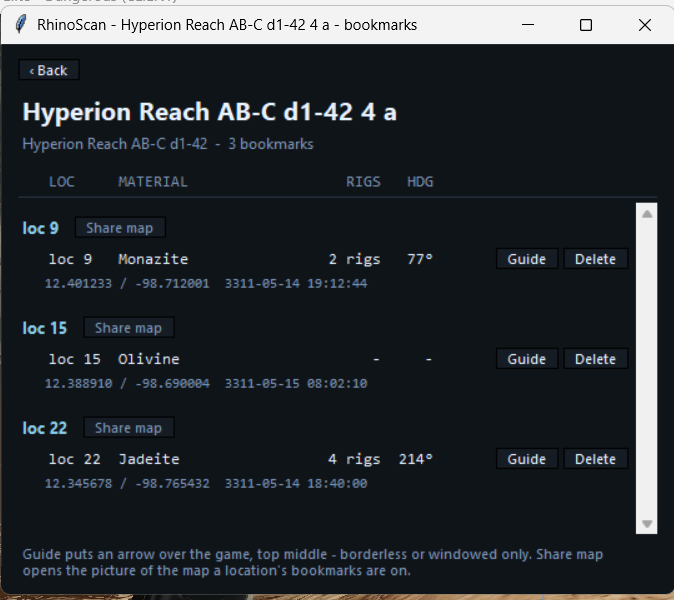
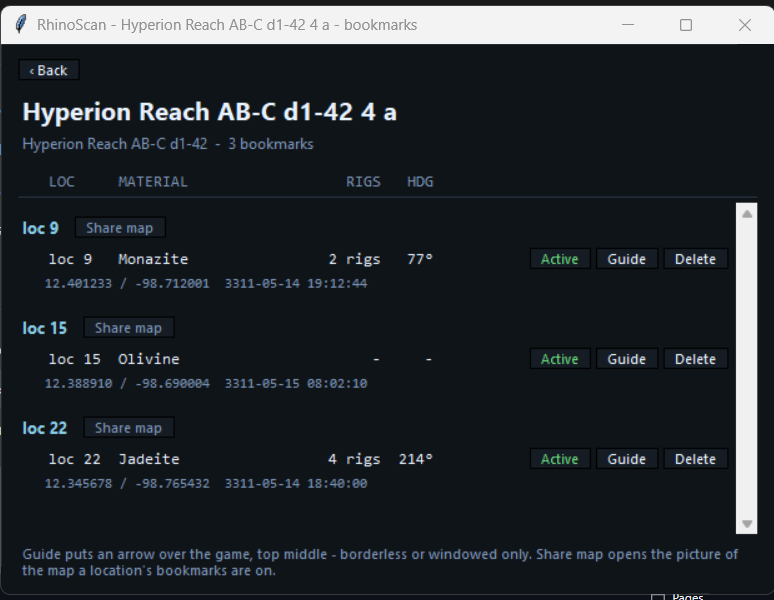
Mark a bookmark depleted: green Active, red Depleted, before Guide
The time of the mark goes into the bookmark's JSON as depleted_at, so a
refill time can be counted from it once one is known. 4.1.0, not released.

Claude-Session: https://claude.ai/code/session_01M6boCJULrSyUu3acaq6ken

diff --git a/rs_ui/scan.py b/rs_ui/scan.py
@@ -357,10 +357,10 @@ def _cards_link(parent, records):
                lambda event: _bookmarks_view(label.winfo_toplevel(), system, body, records))
 
 
-# The two buttons on every bookmark row. Buttons are not labels, so the width
+# The three buttons on every bookmark row. Buttons are not labels, so the width
 # measurement cannot see them and the window would open exactly that much too
 # narrow - and a row too narrow does not wrap, it drops what is packed right.
-BUTTONS = 140
+BUTTONS = 220
 
 
 def _bookmarks_view(window, system, body, records):
@@ -480,9 +480,29 @@ def _bookmark_row(parent, record):
     _button(head, "Delete", lambda: _delete_bookmark(record),
             active=palette.ALERT).pack(side="right", padx=(4, 6))
     _guide_button(head, record)
+    _depleted_button(head, record)
 
     tk.Label(row, text="   " + _bookmark_detail(record), bg=BG, fg=DIM, anchor="w",
              font=("Consolas", 8)).pack(fill="x")
+
+
+def _depleted_button(parent, record):
+    """Green "Active" while the patch still has something, red "Depleted" once
+    it is marked mined out; a press flips it. Packed after Guide, so it sits
+    before it on the row."""
+    depleted = bool(record.get("depleted_at"))
+    button = _button(parent, "Depleted" if depleted else "Active",
+                     lambda: _toggle_depleted(record))
+    button.config(fg=palette.ALERT if depleted else GOOD)
+    button.pack(side="right", padx=(0, 4))
+
+
+def _toggle_depleted(record):
+    if not cards.set_depleted(record, not record.get("depleted_at")):
+        messagebox.showwarning(
+            "Depleted", "The bookmark could not be written - see the EDMC log.",
+            parent=_window)
+    _reload()
 
 
 def _guide_button(parent, record):
@@ -590,7 +610,9 @@ def _bookmark_detail(record):
     thing here that cannot be worked out again afterwards.
     """
     marked = str(record.get("marked_at") or "").split(".")[0].replace("T", " ")
-    return "  ".join(part for part in (_coords(record), marked) if part)
+    depleted = str(record.get("depleted_at") or "").split("+")[0].replace("T", " ")
+    return "  ".join(part for part in (_coords(record), marked,
+                                       f"depleted {depleted}" if depleted else "") if part)
 
 
 def _coords(record):

diff --git a/rs_core/cards.py b/rs_core/cards.py
@@ -10,6 +10,8 @@ rs_tests/test_cards.py.
 
 import json
 import os
+import tempfile
+from datetime import datetime, timezone
 
 from rs_core.logging import logger
 from rs_core.spotcard import card_dir
@@ -70,6 +72,42 @@ def delete(record):
             logger.warning(f"could not delete {target}: {err}")
             return False
     return removed
+
+
+def set_depleted(record, depleted, when=None):
+    """Mark a bookmark as mined out, or take the mark off. True when written.
+
+    Written into the bookmark's own JSON as `depleted_at` - when it was marked,
+    not a yes/no - so the day the community knows how long a patch takes to
+    come back, the time is already there to count from. No mark, no key.
+    The record in hand is updated to match.
+    """
+    path = record.get("sidecar")
+    if not path:
+        return False
+    try:
+        with open(path, encoding="utf-8") as handle:
+            data = json.load(handle)
+        if depleted:
+            data["depleted_at"] = when or datetime.now(timezone.utc).isoformat(timespec="seconds")
+        else:
+            data.pop("depleted_at", None)
+        folder = os.path.dirname(path) or "."
+        handle = tempfile.NamedTemporaryFile("w", encoding="utf-8", dir=folder,
+                                             suffix=".tmp", delete=False)
+        try:
+            json.dump(data, handle, indent=1)
+        finally:
+            handle.close()
+        os.replace(handle.name, path)
+    except (OSError, ValueError) as err:
+        logger.warning(f"could not mark {path} depleted: {err}")
+        return False
+    if depleted:
+        record["depleted_at"] = data["depleted_at"]
+    else:
+        record.pop("depleted_at", None)
+    return True
 
 
 def by_body(system, root=None):

diff --git a/rs_tests/test_cards.py b/rs_tests/test_cards.py
@@ -129,6 +129,34 @@ class TestDelete:
         assert cards.delete(record) is False
 
 
+class TestDepleted:
+    """A bookmark marked mined out, and the mark taken off again."""
+
+    def test_marking_writes_when(self, tmp_path):
+        write_card(tmp_path, "Andel 1 a", "Jadeite", 22, "x")
+        record = cards.for_system("Andel", root=str(tmp_path))[0]
+        assert cards.set_depleted(record, True, when="3311-05-20T10:00:00+00:00") is True
+        again = cards.for_system("Andel", root=str(tmp_path))[0]
+        assert again["depleted_at"] == "3311-05-20T10:00:00+00:00"
+        assert record["depleted_at"] == again["depleted_at"]
+        # Everything else in the bookmark is left as it was.
+        assert again["commodity"] == "Jadeite" and again["location_index"] == 22
+
+    def test_unmarking_removes_the_key(self, tmp_path):
+        write_card(tmp_path, "Andel 1 a", "Jadeite", 22, "x")
+        record = cards.for_system("Andel", root=str(tmp_path))[0]
+        cards.set_depleted(record, True)
+        cards.set_depleted(record, False)
+        with open(record["sidecar"], encoding="utf-8") as handle:
+            assert "depleted_at" not in json.load(handle)
+        assert "depleted_at" not in record
+
+    def test_a_bookmark_that_cannot_be_written_says_so(self, tmp_path):
+        record = {"sidecar": str(tmp_path / "gone.json")}
+        assert cards.set_depleted(record, True) is False
+        assert cards.set_depleted({}, True) is False
+
+
 class TestOrdered:
     """The order the bookmark list is read in: the best patch on this body
     first, not the one worked first."""

diff --git a/rs_core/update.py b/rs_core/update.py
@@ -27,7 +27,7 @@ try:
 except ImportError:         # a bare interpreter without it
     requests = None
 
-VERSION = "4.0.2"
+VERSION = "4.1.0"
 
 # For testing the update path without publishing a throwaway release: set
 # RHINOSPOTTER_VERSION to something older and the running plugin will see the

diff --git a/structure.md b/structure.md
@@ -128,7 +128,8 @@ No tkinter anywhere in here.
   out of one is a guess; a PNG without JSON is skipped rather than guessed at.
   An old card's PNG is kept on the record as `path` when it is still there.
   `ordered()` is the order a body's bookmarks are read in: most rigs first,
-  uncounted ones last; `delete()` removes one, JSON and any old PNG at once.
+  uncounted ones last; `delete()` removes one, JSON and any old PNG at once;
+  `set_depleted()` writes or removes `depleted_at` in the bookmark's JSON.
 - **[measure.py](rs_core/measure.py)** - area and rig count for a border
   driven in the SRV. Shoelace for the area, ray casting for what is inside,
   and a 76 m grid for the rigs. Flat earth on purpose: a spot is a few hundred

diff --git a/README.md b/README.md
@@ -40,6 +40,11 @@ returns to the body list.
 **Share map**, beside each location, opens the picture of the map that
 location's bookmarks were made on - see [Sharing a map](#sharing-a-map).
 
+**Active** / **Depleted**, before Guide, marks a patch as mined out: green
+while it still has something, red once marked, a press flips it. The bookmark
+keeps when it was marked (`depleted_at`), so once the community knows how long
+a patch takes to refill, that can be counted from it.
+
 **Delete** removes that bookmark from disk, after asking. The last one on a
 body takes you back to the body list.
 

diff --git a/INSTALL.md b/INSTALL.md
@@ -78,6 +78,9 @@ distance under it. Elite must run borderless or windowed - nothing draws over
 an exclusive fullscreen. **Stop** on the same row takes it down, and so does
 six seconds of having nothing to point at.
 
+**Active / Depleted.** Marks the patch mined out (red) or not (green); the
+bookmark keeps when it was marked.
+
 **Delete.** Removes that bookmark from disk, after asking.
 
 **Loc.** Landing fills it in by itself, from the mining location the game says

diff --git a/CHANGELOG.md b/CHANGELOG.md
@@ -1,5 +1,15 @@
 # Changelog
 
+## 4.1.0
+
+**Added**
+
+- Bookmarks can be marked depleted. A button before Guide reads a green
+  **Active** or a red **Depleted**, and a press flips it. The mark is written
+  into the bookmark's JSON as `depleted_at`, the time it was set, so a refill
+  time can be counted from it once the community knows one. The dim line
+  under the bookmark shows when.
+
 ## 4.0.2
 
 **Changed**
